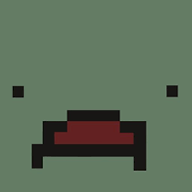
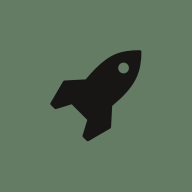
Package Update

Changed region(s): [[0.1562, 0.25, 0.7812, 0.9062], [0.8438, 0.4375, 0.9375, 0.5312], [0.0625, 0.4375, 0.125, 0.5312]]

diff --git a/README.md b/README.md
@@ -3,7 +3,7 @@
 # Rocket Plugins Dependencies
 Provides Rocket Plugins Dependencies References
 
-[![Build status](https://ci.appveyor.com/api/projects/status/u3bc805ovy8jgib0?svg=true)](https://ci.appveyor.com/project/ennerperez/rocket-plugins-dependencies)
+[![Build status](https://ci.appveyor.com/api/projects/status/1j5mwx2jkx6321hv?svg=true)](https://ci.appveyor.com/project/ennerperez/rocket-plugins-dependencies)
 [![NuGet](http://img.shields.io/nuget/v/Rocket.Plugins.Dependencies.svg)](https://www.nuget.org/packages/Rocket.Plugins.Dependencies/)
 
 ---------------------------------------

diff --git a/CHANGELOG.md b/CHANGELOG.md
@@ -4,6 +4,11 @@ All notable changes to this project will be documented in this file.
 The format is based on [Keep a Changelog](https://keepachangelog.com/en/1.0.0/),
 and this project adheres to [Semantic Versioning](https://semver.org/spec/v2.0.0.html).
 
+## [4.9.5] - [2020-05-20]
+### Changed
+- Libs Updated
+- Icon redefined
+
 ## [4.9.4] - [2020-05-05]
 ### Changed
 - Solution Structure
